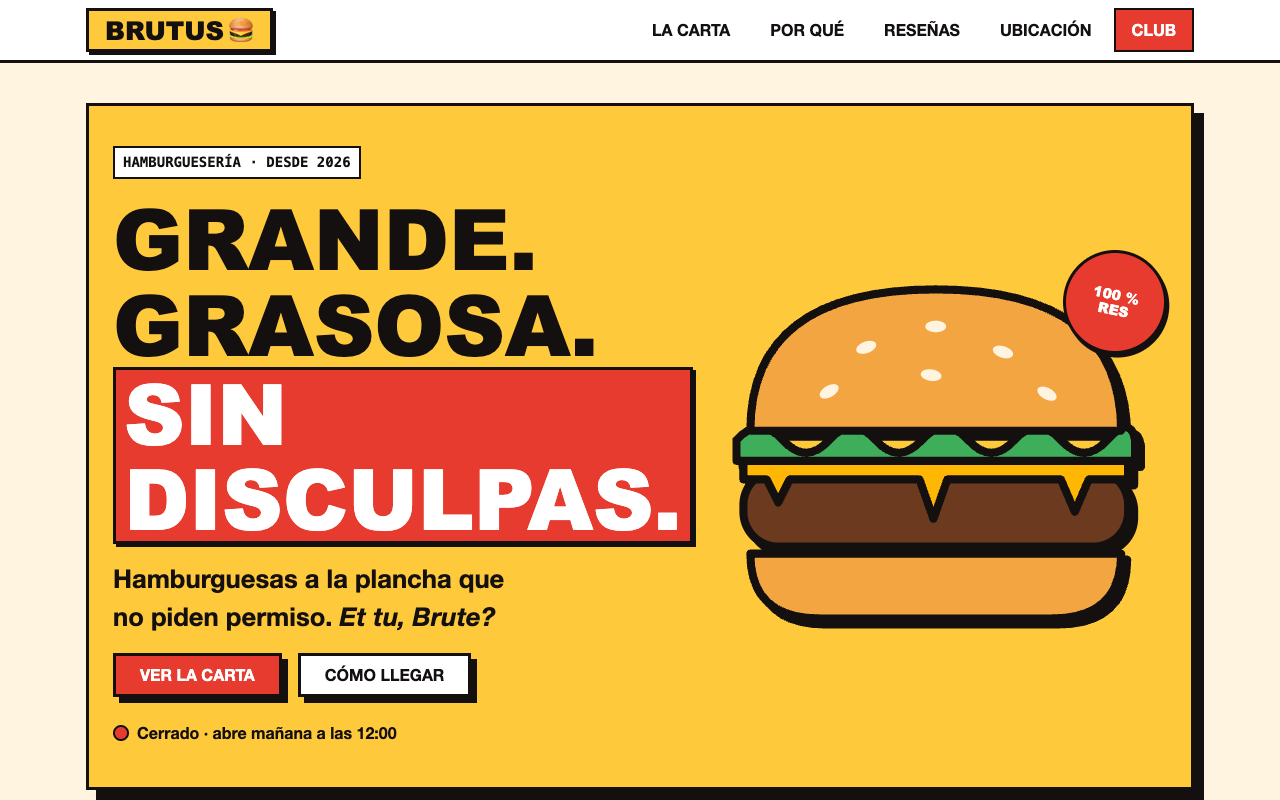
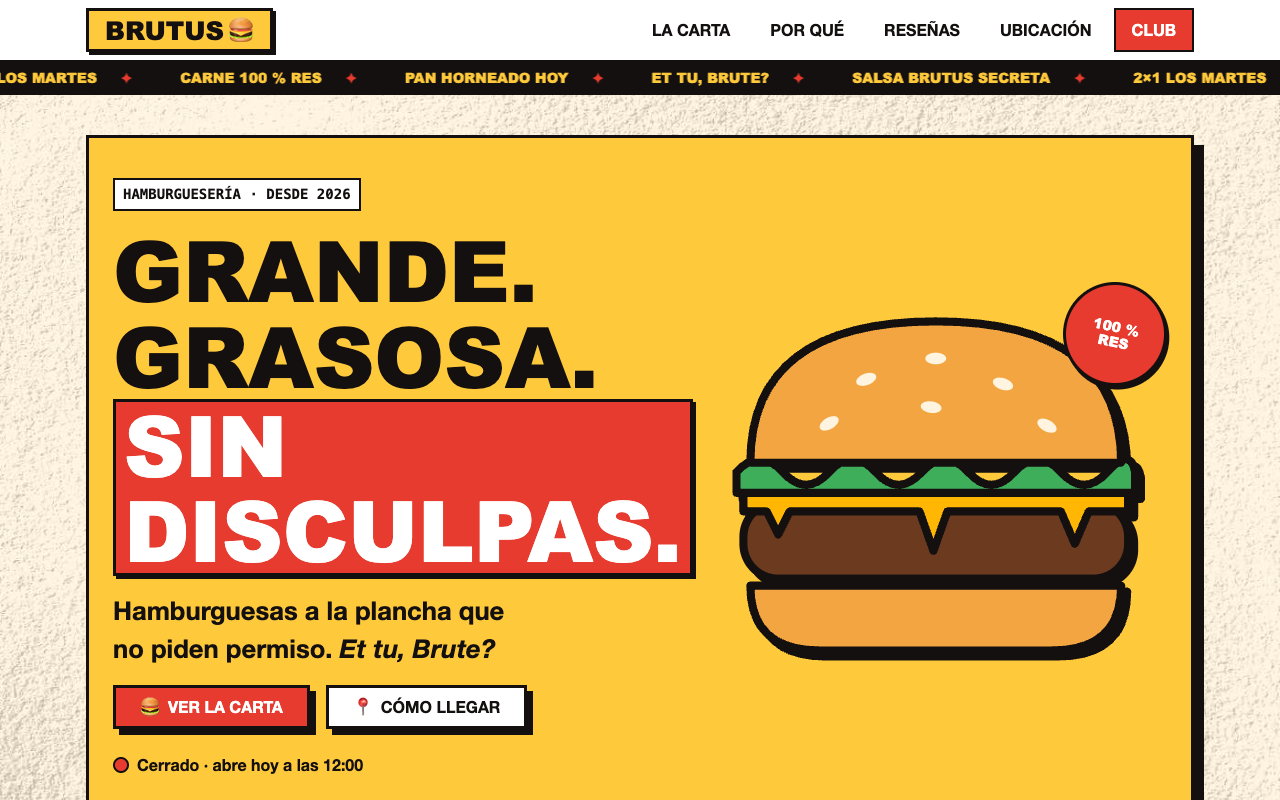
docs: third-party notices, credits and refreshed demo media

diff --git a/THIRD_PARTY_NOTICES.md b/THIRD_PARTY_NOTICES.md
@@ -1,0 +1,43 @@
+# Avisos de terceros
+
+Este proyecto usa recursos de terceros. Cada uno conserva su propia licencia, que **no** es la licencia MIT de este repositorio salvo que se indique.
+
+## Animaciones de UI: Uiverse.io (MIT)
+
+El brillo que cruza los botones, el giro del icono y el efecto de elevar y hundir las tarjetas de la carta están adaptados de elementos de [Uiverse.io](https://uiverse.io/) creados por **0xnihilism** (`Buttons/0xnihilism_fast-cat-82`, `Cards/0xnihilism_thin-crab-36` en [uiverse-io/galaxy](https://github.com/uiverse-io/galaxy)).
+
+```
+MIT License
+
+Copyright (c) 2023 Uiverse.io
+
+Permission is hereby granted, free of charge, to any person obtaining a copy
+of this software and associated documentation files (the "Software"), to deal
+in the Software without restriction, including without limitation the rights
+to use, copy, modify, merge, publish, distribute, sublicense, and/or sell
+copies of the Software, and to permit persons to whom the Software is
+furnished to do so, subject to the following conditions:
+
+The above copyright notice and this permission notice shall be included in all
+copies or substantial portions of the Software.
+
+THE SOFTWARE IS PROVIDED "AS IS", WITHOUT WARRANTY OF ANY KIND, EXPRESS OR
+IMPLIED, INCLUDING BUT NOT LIMITED TO THE WARRANTIES OF MERCHANTABILITY,
+FITNESS FOR A PARTICULAR PURPOSE AND NONINFRINGEMENT. IN NO EVENT SHALL THE
+AUTHORS OR COPYRIGHT HOLDERS BE LIABLE FOR ANY CLAIM, DAMAGES OR OTHER
+LIABILITY, WHETHER IN AN ACTION OF CONTRACT, TORT OR OTHERWISE, ARISING FROM,
+OUT OF OR IN CONNECTION WITH THE SOFTWARE OR THE USE OR OTHER DEALINGS IN THE
+SOFTWARE.
+```
+
+## Ilustraciones: John Leech (dominio público)
+
+`assets/leech-gladiator.jpg` y `assets/leech-tarquinius.jpg` proceden de *The Comic History of Rome* (Gilbert Abbott à Beckett, ilustrado por John Leech, c. 1850), obtenidas del [Public Domain Image Archive](https://pdimagearchive.org/) de The Public Domain Review. Fuente: Internet Archive / Duke University Libraries. Derechos subyacentes: dominio público en todo el mundo. Las imágenes se recortaron y redimensionaron.
+
+## Textura de papel: Texture Labs
+
+`assets/paper-grain.jpg` es una **obra derivada** de la textura *Paper 241* de [Texture Labs](https://texturelabs.org/): se aisló el grano, se amplificó y se tiñó con el color de la marca. Se usa como parte del sitio, conforme a los [términos de Texture Labs](https://texturelabs.org/terms), que permiten el uso en sitios web pero prohíben redistribuir los recursos en su forma original o como paquete de texturas. **Este archivo no está cubierto por la licencia MIT del proyecto**: no lo reutilices como textura independiente; descarga la original en Texture Labs.
+
+## Tipografía
+
+Solo fuentes del sistema (Arial Black, Helvetica Neue, Arial, system-ui y monoespaciadas del sistema). No se incluye ningún archivo de fuente.

diff --git a/README.md b/README.md
@@ -23,6 +23,8 @@ Landing page neo-brutalista para una hamburguesería **ficticia**. Proyecto de p
 - **Club Brutus**: formulario con validación, consentimiento explícito, honeypot anti-bots y throttle de UX.
 - **Accesible**: skip link, ARIA, objetivos táctiles de 44 px o más, anuncios `aria-live` y `prefers-reduced-motion` respetado.
 - **Seguro**: CSP estricta sin `unsafe-inline`, DOM construido solo con `textContent` y sin secretos en el frontend.
+- **Detalles de UI animados**: cinta de anuncios, brillo que cruza los botones, iconos que giran, tarjetas que se elevan y se hunden, casilla con marca animada y grabados que se enderezan al pasar el mouse.
+- **La leyenda**: grabados humorísticos de la Roma antigua de John Leech (c. 1850, dominio público) sobre fondo de papel.
 
 ## Stack
 
@@ -78,6 +80,17 @@ supabase functions deploy subscribe
 
 Después añade `SUPABASE_FUNCTIONS_URL` y `SUPABASE_ANON_KEY` en GitHub → Settings → Secrets and variables → Actions. El workflow genera `js/config.js` con esos valores públicos al desplegar.
 
+## Créditos
+
+- Animaciones de UI adaptadas de [Uiverse.io](https://uiverse.io/) (autor: 0xnihilism, licencia MIT).
+- Ilustraciones de John Leech, *The Comic History of Rome* (c. 1850), dominio público vía [Public Domain Image Archive](https://pdimagearchive.org/).
+- Textura de papel derivada de [Texture Labs](https://texturelabs.org/).
+- Inspiración de diseño: galerías de neo-brutalismo en [Dribbble](https://dribbble.com/search/neo-brutalism-food) (solo referencia; no se copió ningún diseño).
+
+Detalles y licencias en [THIRD_PARTY_NOTICES.md](THIRD_PARTY_NOTICES.md).
+
 ## Licencia
 
-[MIT](LICENSE) © 2026 Samir Lorenzo. *Brutus Burgers es un negocio ficticio creado para este portfolio.*
+El código es [MIT](LICENSE) © 2026 Samir Lorenzo. Los recursos de terceros conservan sus licencias (ver [THIRD_PARTY_NOTICES.md](THIRD_PARTY_NOTICES.md)); en particular, `assets/paper-grain.jpg` **no** está bajo MIT.
+
+*Brutus Burgers es un negocio ficticio creado para este portfolio.*
